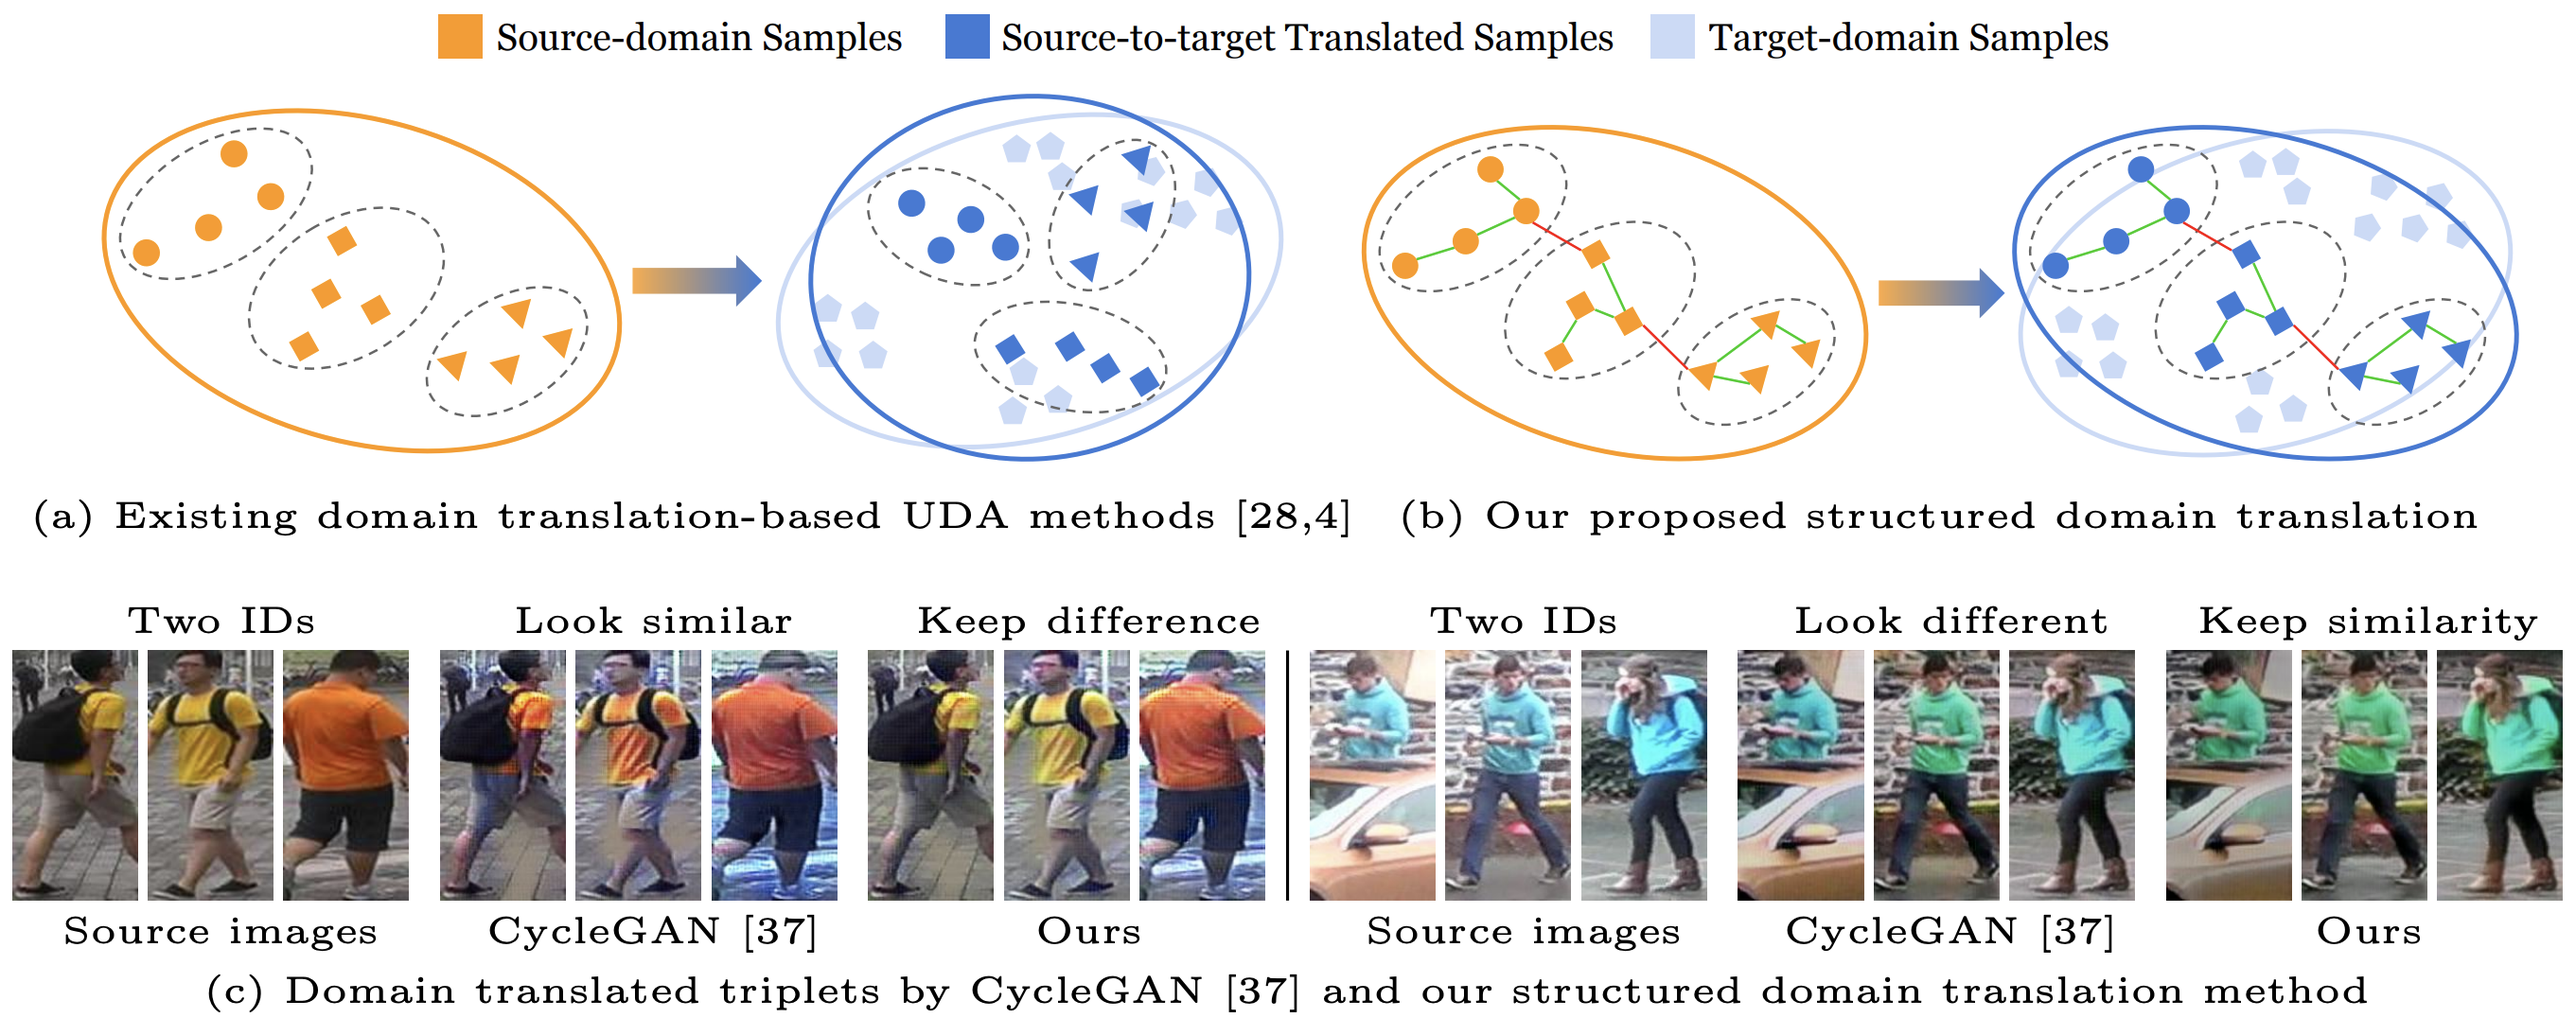
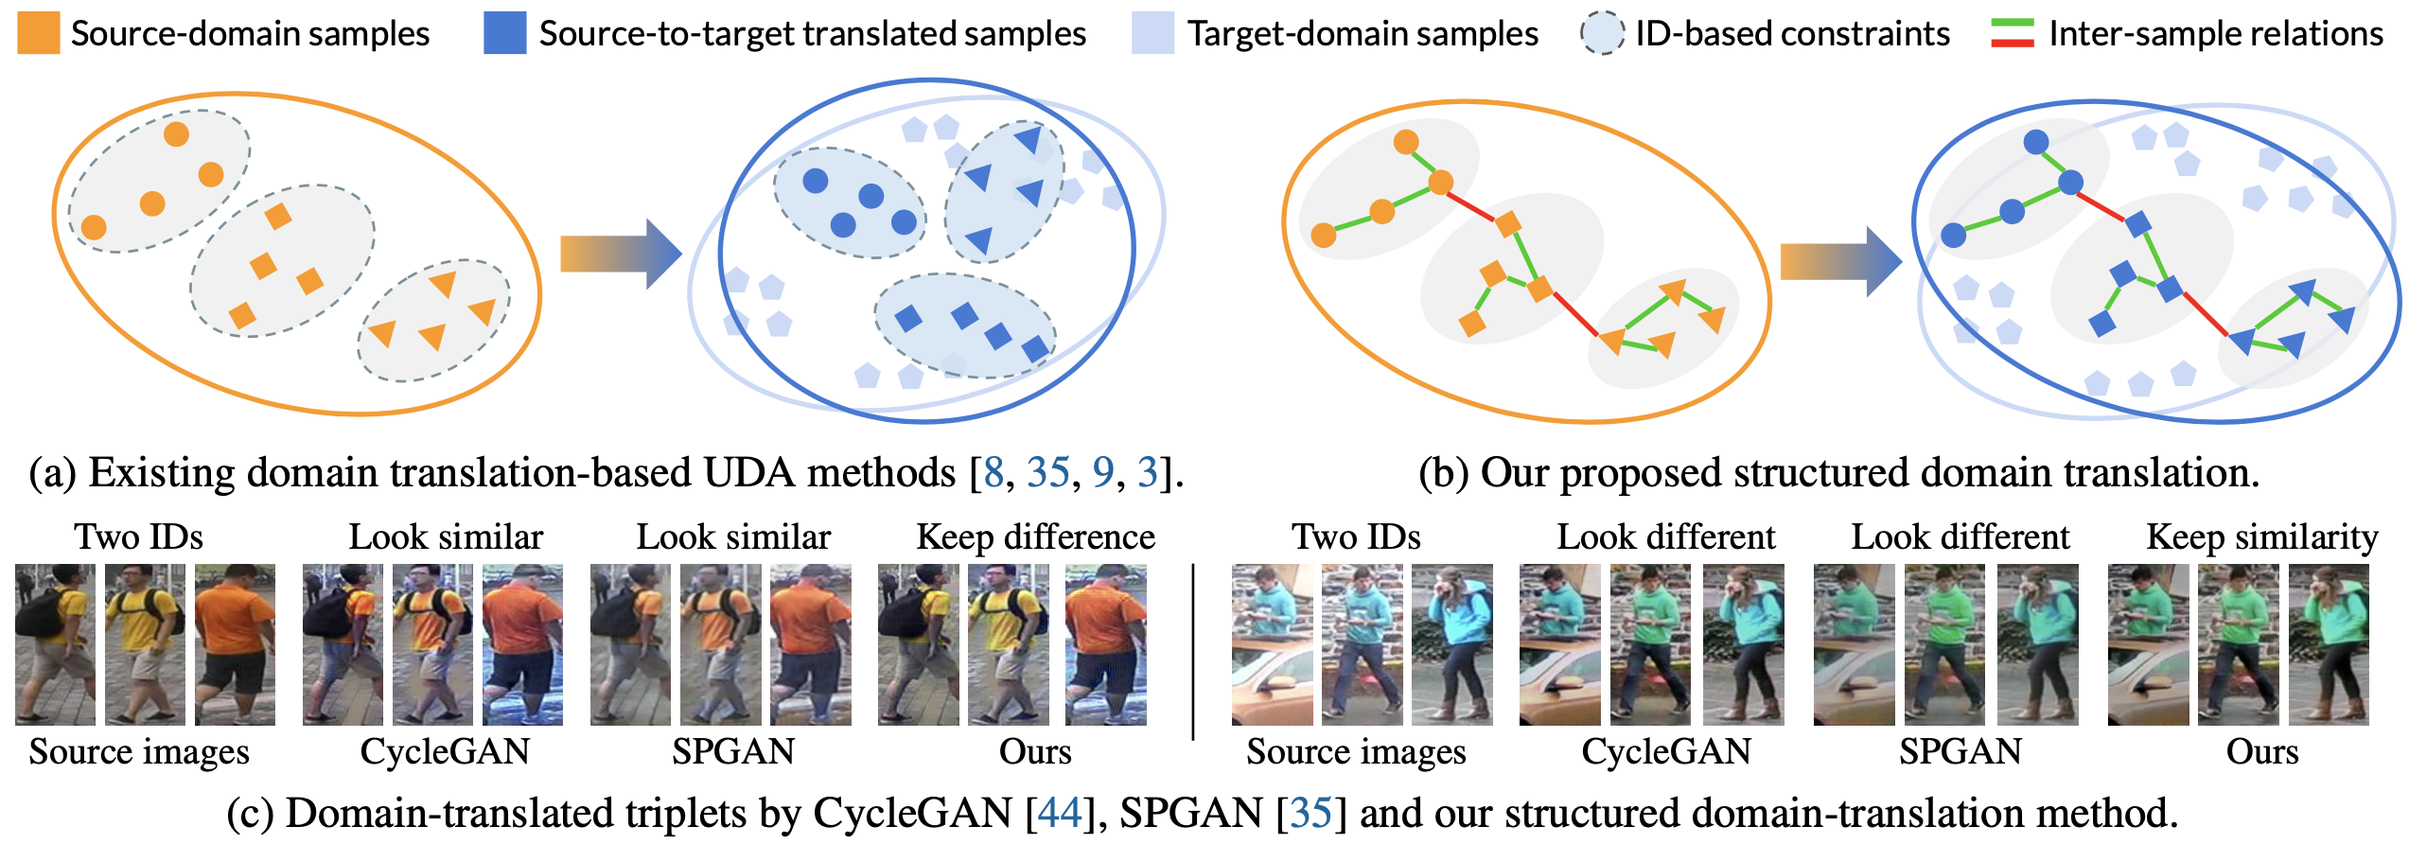
add SpCL

diff --git a/projects/spcl.html b/projects/spcl.html
@@ -1,11 +1,11 @@
 <!DOCTYPE html PUBLIC "-//W3C//DTD XHTML 1.0 Transitional//EN" "http://www.w3.org/TR/xhtml1/DTD/xhtml1-transitional.dtd">
 <html xmlns="http://www.w3.org/1999/xhtml"><head><meta http-equiv="Content-Type" content="text/html; charset=UTF-8">
-<title>Structured Domain Adaptation with Online Relation Regularization for Unsupervised Person Re-ID</title>
+<title>Self-paced Contrastive Learning with Hybrid Memory for Domain Adaptive Object Re-ID</title>
 
 <!-- Meta tags for search engines to crawl -->
 <meta name="robots" content="index,follow">
-<meta name="description" content="Unsupervised domain adaptation (UDA) aims at adapting the model trained on a labeled source-domain dataset to an unlabeled target-domain dataset. The task of UDA on open-set person re-identification (re-ID) is even more challenging as the identities (classes) do not overlap between the two domains. One major research direction was based on domain translation, which, however, has fallen out of favor in recent years due to inferior performance compared to pseudo-label-based methods. We argue that translation-based methods have great potential on exploiting the valuable source-domain data but they did not provide proper regularization on the translation process. Specifically, these methods only focus on maintaining the identities of the translated images while ignoring the inter-sample relation during translation. To tackle the challenge, we propose an end-to-end structured domain adaptation framework with an online relation-consistency regularization term. During training, the person feature encoder is optimized to model inter-sample relations on-the-fly for supervising relation-consistency domain translation, which in turn, improves the encoder with informative translated images. An improved pseudo-label-based encoder can therefore be obtained by jointly training the source-to-target translated images with ground-truth identities and target-domain images with pseudo identities. In the experiments, our proposed framework is shown to outperform state-of-the-art methods on multiple UDA tasks of person re-ID.">
-<meta name="keywords" content="Structured Domain Translation; Unsupervised Domain Adaptation, Person Re-identification; Computer Vision; Deep Learning">
+<meta name="description" content="Domain adaptive object re-ID aims to transfer the learned knowledge from the labeled source domain to the unlabeled target domain to tackle the open-class re-identification problems. Although state-of-the-art pseudo-label-based methods have achieved great success, they did not make full use of all valuable information because of the domain gap and unsatisfying clustering performance. To solve these problems, we propose a novel self-paced contrastive learning framework with hybrid memory. The hybrid memory dynamically generates source-domain class-level, target-domain cluster-level and un-clustered instance-level supervisory signals for learning feature representations. Different from the conventional contrastive learning strategy, the proposed framework jointly distinguishes source-domain classes, and target-domain clusters and un-clustered instances. Most importantly, the proposed self-paced method gradually creates more reliable clusters to refine the hybrid memory and learning targets, and is shown to be the key to our outstanding performance. Our method outperforms state-of-the-arts on multiple domain adaptation tasks of object re-ID and even boosts the performance on the source domain without any extra annotations. Our generalized version on unsupervised person re-ID surpasses state-of-the-art algorithms by considerable 16.2% and 14.6% on Market-1501 and DukeMTMC-reID benchmarks.">
+<meta name="keywords" content="Unsupervised Learning; Unsupervised Domain Adaptation, Object Re-identification; Computer Vision; Deep Learning">
 <link rel="author" href="https://yxgeee.github.io/">
 
 <!-- Fonts and stuff -->
@@ -22,10 +22,12 @@
     <div id="content-inner">
 
       <div class="section head">
-        <h1>Structured Domain Adaptation with Online Relation Regularization for Unsupervised Person Re-ID</h1>
+        <h1>Self-paced Contrastive Learning with Hybrid Memory</h1>
+        <h1>for Domain Adaptive Object Re-ID</h1>
 
 	<div class="authors">
 	  <a href="https://yxgeee.github.io/">Yixiao Ge</a><sup></sup>&nbsp;&nbsp;&nbsp;&nbsp;&nbsp;
+    <a href="https://scholar.google.com/citations?user=-Wpd7FcAAAAJ&hl=en">Dapeng Chen</a><sup></sup>&nbsp;&nbsp;&nbsp;&nbsp;&nbsp;
     <a href="http://home.ustc.edu.cn/~zhufengx/">Feng Zhu</a><sup></sup>&nbsp;&nbsp;&nbsp;&nbsp;&nbsp;
 	  <a href="http://zhaorui.xyz/">Rui Zhao</a><sup></sup>&nbsp;&nbsp;&nbsp;&nbsp;&nbsp;
 	  <a href="http://www.ee.cuhk.edu.hk/~hsli/">Hongsheng Li</a><sup></sup>&nbsp;&nbsp;&nbsp;&nbsp;&nbsp;
@@ -39,13 +41,13 @@
 
     </div>
 
-    <center><img src="./sda/intro.png" border="0" width="80%"></center>
+    <center><img src="./spcl/framework.png" border="0" width="80%"></center>
 
 <div class="section abstract">
 	<h2>Abstract</h2>
 	<br>
 	<p>
-Unsupervised domain adaptation (UDA) aims at adapting the model trained on a labeled source-domain dataset to an unlabeled target-domain dataset. The task of UDA on open-set person re-identification (re-ID) is even more challenging as the identities (classes) do not overlap between the two domains. One major research direction was based on domain translation, which, however, has fallen out of favor in recent years due to inferior performance compared to pseudo-label-based methods. We argue that translation-based methods have great potential on exploiting the valuable source-domain data but they did not provide proper regularization on the translation process. Specifically, these methods only focus on maintaining the identities of the translated images while ignoring the inter-sample relation during translation. To tackle the challenge, we propose an end-to-end structured domain adaptation framework with an online relation-consistency regularization term. During training, the person feature encoder is optimized to model inter-sample relations on-the-fly for supervising relation-consistency domain translation, which in turn, improves the encoder with informative translated images. An improved pseudo-label-based encoder can therefore be obtained by jointly training the source-to-target translated images with ground-truth identities and target-domain images with pseudo identities. In the experiments, our proposed framework is shown to outperform state-of-the-art methods on multiple UDA tasks of person re-ID.
+Domain adaptive object re-ID aims to transfer the learned knowledge from the labeled source domain to the unlabeled target domain to tackle the open-class re-identification problems. Although state-of-the-art pseudo-label-based methods have achieved great success, they did not make full use of all valuable information because of the domain gap and unsatisfying clustering performance. To solve these problems, we propose a novel self-paced contrastive learning framework with hybrid memory. The hybrid memory dynamically generates source-domain class-level, target-domain cluster-level and un-clustered instance-level supervisory signals for learning feature representations. Different from the conventional contrastive learning strategy, the proposed framework jointly distinguishes source-domain classes, and target-domain clusters and un-clustered instances. Most importantly, the proposed self-paced method gradually creates more reliable clusters to refine the hybrid memory and learning targets, and is shown to be the key to our outstanding performance. Our method outperforms state-of-the-arts on multiple domain adaptation tasks of object re-ID and even boosts the performance on the source domain without any extra annotations. Our generalized version on unsupervised person re-ID surpasses state-of-the-art algorithms by considerable <b>16.2%</b> and <b>14.6%</b> on Market-1501 and DukeMTMC-reID benchmarks.
 	</p>
       </div>
 
@@ -70,8 +72,8 @@ Unsupervised domain adaptation (UDA) aims at adapting the model trained on a lab
 
           <li class="grid">
 	      <div class="griditem">
-		<a href="https://arxiv.org/abs/2003.06650" target="_blank" class="imageLink"><img src="./files/arxiv.png"></a><br>
-		  <a href="https://arxiv.org/abs/2003.06650" target="_blank">Paper</a>
+		<a href="https://arxiv.org/abs/2006.02713" target="_blank" class="imageLink"><img src="./files/arxiv.png"></a><br>
+		  <a href="https://arxiv.org/abs/2006.02713" target="_blank">Paper</a>
 		</div>
 	      </li>
 
@@ -84,8 +86,8 @@ Unsupervised domain adaptation (UDA) aims at adapting the model trained on a lab
 
         <li class="grid">
       <div class="griditem">
-  <a href="https://github.com/yxgeee/SDA" target="_blank" class="imageLink"><img src="./files/code.png"></a><br>
-    <a href="https://github.com/yxgeee/SDA" target="_blank">Code and Models</a>
+  <a href="https://github.com/yxgeee/SpCL" target="_blank" class="imageLink"><img src="./files/code.png"></a><br>
+    <a href="https://github.com/yxgeee/SpCL" target="_blank">Code and Models</a>
   </div>
       </li>
 
@@ -163,14 +165,14 @@ Unsupervised domain adaptation (UDA) aims at adapting the model trained on a lab
 <div class="section citation">
 	<h2>Citation</h2>
 	<div class="section bibtex">
-	  <pre>@misc{ge2020structured,
-    title={Structured Domain Adaptation for Unsupervised Person Re-identification},
-    author={Yixiao Ge and Feng Zhu and Rui Zhao and Hongsheng Li},
-    year={2020},
-    eprint={2003.06650},
-    archivePrefix={arXiv},
-    primaryClass={cs.CV}
-}</pre>
+	  <pre>@misc{ge2020selfpaced,
+        title={Self-paced Contrastive Learning with Hybrid Memory for Domain Adaptive Object Re-ID},
+        author={Yixiao Ge and Dapeng Chen and Feng Zhu and Rui Zhao and Hongsheng Li},
+        year={2020},
+        eprint={2006.02713},
+        archivePrefix={arXiv},
+        primaryClass={cs.CV}
+    }</pre>
 	  </div>
       </div>
 

diff --git a/index.html b/index.html
@@ -129,17 +129,36 @@
 
               <div class="card horizontal pub-entry">
                 <div class="card-image valign-wrapper hide-on-small-only">
-                  <img class="valign" src="images/arxiv_sda.JPG">
+                  <img class="valign" src="images/arxiv_spcl.png">
                 </div>
                 <div class="card-stacked">
                   <div  class="card-content">
-                    <p class="title">Structured Domain Adaptation for Unsupervised Person Re-identification</p>
+                    <p class="title">Self-paced Contrastive Learning with Hybrid Memory for Domain Adaptive Object Re-ID</p>
+                    <p class="authors"><b>Yixiao Ge</b>, Dapeng Chen, Feng Zhu, Rui Zhao, Hongsheng Li<br></p>
+                    <p class="conference">Arxiv preprint, June 2020</p>
+                  </div>
+                  <div class="card-action">
+                    <a href="./projects/spcl.html" target="_blank">Project</a>
+                    <a href="https://arxiv.org/abs/2006.02713" target="_blank">PDF</a>
+                    <a href="https://github.com/yxgeee/SpCL" target="_blank">Code</a>
+                  </div>
+                </div>
+              </div>
+
+              <div class="card horizontal pub-entry">
+                <div class="card-image valign-wrapper hide-on-small-only">
+                  <img class="valign" src="images/arxiv_sda.png">
+                </div>
+                <div class="card-stacked">
+                  <div  class="card-content">
+                    <p class="title">Structured Domain Adaptation with Online Relation Regularization for Unsupervised Person Re-ID</p>
                     <p class="authors"><b>Yixiao Ge</b>, Feng Zhu, Rui Zhao, Hongsheng Li<br></p>
-                    <p class="conference">Arxiv preprint, Mar 2020</p>
+                    <p class="conference">Arxiv preprint, Mar 2020 (v1)</p>
                   </div>
                   <div class="card-action">
                     <a href="./projects/sda.html" target="_blank">Project</a>
                     <a href="https://arxiv.org/abs/2003.06650" target="_blank">PDF</a>
+                    <a href="https://github.com/yxgeee/SDA" target="_blank">Code</a>
                   </div>
                 </div>
               </div>
